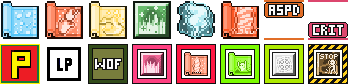
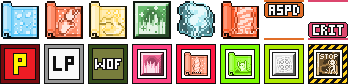
feat: lgp, kit rotools-lgp 1.3.0 con Pneuma e LP disegnati come WOF
Le due immagini della gilda Fromage lasciano il posto a P gialla su rosso e LP nero su
bianco nel riquadro di Fog Wall, con le lettere del kit: tolta la citazione della gilda
da pagina e README.

Changed region(s): [[0.0, 0.5238, 0.2586, 1.0]]

diff --git a/lgp/index.html b/lgp/index.html
@@ -142,8 +142,8 @@ footer { max-width: 960px; margin: 0 auto; padding: 0 20px 40px; }
     <h1>lgp</h1>
     <p class="lead" data-en="A kit for the LGP plugin of the uaRO client: every ground skill shows its official icon, enlarged from 24 to 38 pixels and colored like the skill. Pneuma, Land Protector, Fog Wall and eight songs show a short label instead, so you can recognize them at once.">Un kit per il plugin LGP del client di uaRO: ogni skill a terra mostra la sua icona ufficiale, ingrandita da 24 a 38 pixel e colorata come la skill. Pneuma, Land Protector, Fog Wall e otto canti mostrano invece una sigla, per riconoscerli subito.</p>
     <div class="download">
-      <a class="btn" href="rotools-lgp-1.2.0.zip" download onclick="window.conta?.('lgp-scaricato')" data-en="Download the kit">Scarica il kit</a>
-      <span class="hint" data-en="rotools-lgp-1.2.0.zip, 33 KB: <code>plugin.ini</code> and the <code>lgp</code> folder with 64 images">rotools-lgp-1.2.0.zip, 33 KB: <code>plugin.ini</code> e la cartella <code>lgp</code> con 64 immagini</span>
+      <a class="btn" href="rotools-lgp-1.3.0.zip" download onclick="window.conta?.('lgp-scaricato')" data-en="Download the kit">Scarica il kit</a>
+      <span class="hint" data-en="rotools-lgp-1.3.0.zip, 33 KB: <code>plugin.ini</code> and the <code>lgp</code> folder with 64 images">rotools-lgp-1.3.0.zip, 33 KB: <code>plugin.ini</code> e la cartella <code>lgp</code> con 64 immagini</span>
     </div>
     <img class="anteprima" src="anteprima.png" width="348" height="84"
       alt="Icone di Storm Gust, Meteor Storm, Lord of Vermilion, Sanctuary, Magnus Exorcismus, Fire Wall, Assassin Cross of Sunset, Fortune's Kiss, Pneuma, Land Protector, Fog Wall, Safety Wall, Fire Pillar, Quagmire, Spider Web e Ankle Snare"
@@ -172,7 +172,7 @@ footer { max-width: 960px; margin: 0 auto; padding: 0 20px 40px; }
       <li data-en="<strong>Close the game.</strong>"><strong>Chiudi il gioco.</strong></li>
       <li data-en="<strong>Open the game folder.</strong> Right-click the uaRO icon on the desktop and choose <em>Open file location</em>. The <code>UaRO World of Your Dream</code> folder opens: it is the one that also contains <code>plugin.ini</code>. Keep it open."><strong>Apri la cartella del gioco.</strong> Fai clic destro sull'icona di uaRO sul desktop e scegli <em>Apri percorso file</em>. Si apre la cartella <code>UaRO World of Your Dream</code>: è quella dove c'è anche <code>plugin.ini</code>. Tienila aperta.</li>
       <li data-en="<strong>Back up the current files.</strong> On the desktop create a folder named <code>lgp original</code> (right-click, <em>New</em>, <em>Folder</em>). Copy into it the <code>plugin.ini</code> file of the game folder and the <code>lgp</code> folder you find in <code>data</code>, then <code>texture</code>. Use copy and paste (<code>Ctrl+C</code> and <code>Ctrl+V</code>), do not drag: dragging can move the files instead of copying them. If there is no <code>lgp</code> folder in <code>texture</code>, copy only <code>plugin.ini</code>."><strong>Fai una copia di quello che c'è.</strong> Sul desktop crea una cartella <code>lgp originale</code> (clic destro, <em>Nuovo</em>, <em>Cartella</em>). Copiaci dentro il file <code>plugin.ini</code> della cartella del gioco e la cartella <code>lgp</code> che trovi in <code>data</code>, poi <code>texture</code>. Usa copia e incolla (<code>Ctrl+C</code> e <code>Ctrl+V</code>), non trascinare: trascinando i file possono spostarsi invece di essere copiati. Se in <code>texture</code> la cartella <code>lgp</code> non c'è, copia solo <code>plugin.ini</code>.</li>
-      <li data-en="<strong>Extract the kit.</strong> Right-click the downloaded <code>rotools-lgp-1.2.0.zip</code> file, choose <em>Extract All</em> and then <em>Extract</em>. A folder opens with <code>plugin.ini</code> and the <code>lgp</code> folder."><strong>Estrai il kit.</strong> Fai clic destro sul file scaricato <code>rotools-lgp-1.2.0.zip</code>, scegli <em>Estrai tutto</em> e poi <em>Estrai</em>. Si apre una cartella con <code>plugin.ini</code> e la cartella <code>lgp</code>.</li>
+      <li data-en="<strong>Extract the kit.</strong> Right-click the downloaded <code>rotools-lgp-1.3.0.zip</code> file, choose <em>Extract All</em> and then <em>Extract</em>. A folder opens with <code>plugin.ini</code> and the <code>lgp</code> folder."><strong>Estrai il kit.</strong> Fai clic destro sul file scaricato <code>rotools-lgp-1.3.0.zip</code>, scegli <em>Estrai tutto</em> e poi <em>Estrai</em>. Si apre una cartella con <code>plugin.ini</code> e la cartella <code>lgp</code>.</li>
       <li data-en="<strong>Copy <code>plugin.ini</code></strong> from the extracted folder into the game folder. When Windows asks what to do with the file already there, choose <em>Replace the file in the destination</em>."><strong>Copia <code>plugin.ini</code></strong> dalla cartella estratta alla cartella del gioco. Quando Windows chiede cosa fare con il file che c'è già, scegli <em>Sostituisci il file nella destinazione</em>.</li>
       <li data-en="<strong>Copy the whole <code>lgp</code> folder</strong> from the extracted folder into <code>data</code>, then <code>texture</code>, of the game folder: paste it inside <code>texture</code>, not inside <code>lgp</code>. If Windows asks, choose <em>Replace the files in the destination</em>."><strong>Copia la cartella <code>lgp</code> intera</strong> dalla cartella estratta in <code>data</code>, poi <code>texture</code>, della cartella del gioco: incollala dentro <code>texture</code>, non dentro <code>lgp</code>. Se Windows chiede, scegli <em>Sostituisci i file nella destinazione</em>.</li>
       <li data-en="<strong>Check.</strong> Open <code>data</code>, <code>texture</code>, <code>lgp</code>: you must see the images right away, such as <code>g_wz_stormgust.bmp</code>. If you find another <code>lgp</code> folder instead, open it, select everything (<code>Ctrl+A</code>), cut it (<code>Ctrl+X</code>), go back one level and paste it (<code>Ctrl+V</code>)."><strong>Controlla.</strong> Apri <code>data</code>, <code>texture</code>, <code>lgp</code>: devi vedere subito le immagini, come <code>g_wz_stormgust.bmp</code>. Se invece trovi un'altra cartella <code>lgp</code>, aprila, seleziona tutto (<code>Ctrl+A</code>), taglia (<code>Ctrl+X</code>), torna indietro di una cartella e incolla (<code>Ctrl+V</code>).</li>
@@ -188,7 +188,7 @@ footer { max-width: 960px; margin: 0 auto; padding: 0 20px 40px; }
     <ul>
       <li data-en="Skills are 60% opaque, so you can see what is underneath.">Le skill sono opache al 60%, per vedere cosa c'è sotto.</li>
       <li data-en="Safety Wall, Warp Portal, Demonstration, Fire Pillar, Spider Web, Venom Dust and the traps are fully opaque, with a colored frame, so they stand out. Quagmire has the same frame, at 90%.">Safety Wall, Warp Portal, Demonstration, Fire Pillar, Spider Web, Venom Dust e le trappole sono piene, con una cornice colorata, per vederle subito. Quagmire ha la stessa cornice, al 90%.</li>
-      <li data-en="Pneuma is a yellow P on red and Land Protector the word LP on white, fully opaque. Both images come from the LGP of the Fromage guild.">Pneuma è una P gialla su rosso e Land Protector la scritta LP su bianco, piene. Le due immagini vengono dall'LGP della gilda Fromage.</li>
+      <li data-en="Pneuma is a yellow P on red and Land Protector the word LP on white, fully opaque.">Pneuma è una P gialla su rosso e Land Protector la scritta LP su bianco, piene.</li>
       <li data-en="Fog Wall shows the word WOF, at 70%.">Fog Wall mostra la scritta WOF, al 70%.</li>
       <li data-en="Eight songs show what they give on a colored band, at 70%. The Bard ones are in the upper half of the cell: ASPD (Assassin Cross of Sunset), CAST (A Poem of Bragi), HP (The Apple of Idun). The Dancer ones are in the lower half: CRIT (Fortune's Kiss), SLOW (Please Don't Forget Me), SP (Service for You). This way a song and a dance on the same cells are both visible. The two ensembles, played by Bard and Dancer together, are in the middle: DRUM (A Drum on the Battlefield) and RING (The Ring of Nibelungen). A line at the top and bottom of the cell marks the edge of the area.">Otto canti mostrano su una fascia colorata cosa danno, al 70%. Quelli del bardo stanno nella metà alta della cella: ASPD (Assassin Cross of Sunset), CAST (A Poem of Bragi), HP (The Apple of Idun). Quelli della danzatrice nella metà bassa: CRIT (Fortune's Kiss), SLOW (Please Don't Forget Me), SP (Service for You). Così un canto e una danza sulle stesse celle si vedono entrambi. I due ensemble, che bardo e danzatrice suonano insieme, stanno al centro, DRUM (A Drum on the Battlefield) e RING (The Ring of Nibelungen). Una riga in cima e in fondo alla cella segna il bordo dell'area.</li>
       <li data-en="The areas of Storm Gust, Meteor Storm and Lord of Vermilion stay visible for 4.7, 1 and 4.1 seconds.">Le aree di Storm Gust, Meteor Storm e Lord of Vermilion restano visibili per 4,7, 1 e 4,1 secondi.</li>
@@ -220,7 +220,7 @@ footer { max-width: 960px; margin: 0 auto; padding: 0 20px 40px; }
   </section>
 </main>
 <footer>
-  <p class="hint" data-en="The kit images come from the Ragnarok Online skill icons, by Gravity. Those of Pneuma and Land Protector are by the Fromage guild. None of these images is covered by the site's AGPL-3.0 license.">Le immagini del kit derivano dalle icone delle skill di Ragnarok Online, di Gravity. Quelle di Pneuma e Land Protector sono della gilda Fromage. Nessuna di queste immagini è coperta dalla licenza AGPL-3.0 del sito.</p>
+  <p class="hint" data-en="The kit icons come from the Ragnarok Online skill icons, by Gravity. None of the kit images is covered by the site's AGPL-3.0 license.">Le icone del kit derivano da quelle delle skill di Ragnarok Online, di Gravity. Nessuna immagine del kit è coperta dalla licenza AGPL-3.0 del sito.</p>
 </footer>
 </body>
 </html>

diff --git a/README.md b/README.md
@@ -112,6 +112,6 @@ elaborarli.
 
 ## Licenza
 
-[AGPL-3.0](LICENSE), tranne le immagini in `lgp/` (lo zip del kit e l'anteprima):
-derivano dalle icone delle skill di Ragnarok Online, di Gravity, tranne Pneuma e
-Land Protector, che sono della gilda Fromage, e non sono coperte dalla AGPL.
+[AGPL-3.0](LICENSE), tranne le immagini in `lgp/` (lo zip del kit e l'anteprima),
+che non sono coperte dalla AGPL: le icone derivano da quelle delle skill di
+Ragnarok Online, di Gravity.
